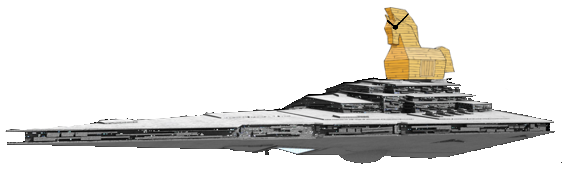
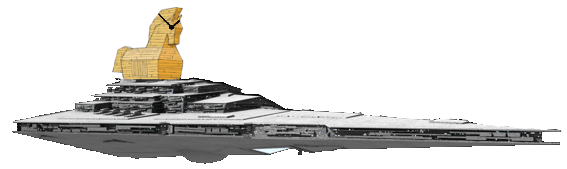
Rage getter and setter in Player + flipped desTroyARRR

diff --git a/Classes/Player.h b/Classes/Player.h
@@ -23,11 +23,19 @@ public:
         return isDead;
     }
 
+	void rageIncrease();
+
+	void setIsRage(const bool & rage);
+
+	bool getIsRage();
+	
 private:
     b2Body * body;
 
     int hp = 100;
+	int rage = 0;
     bool isDead = false;
+	bool isRage = false;
 };
 
 #endif

diff --git a/Classes/Player.cpp b/Classes/Player.cpp
@@ -58,3 +58,16 @@ void Player::damage (Damage::Type type) {
         isDead = true;
     }
 }
+
+void Player::setIsRage(const bool & rage){
+	isRage = rage;
+}
+
+bool Player::getIsRage(){
+	return rage;
+}
+
+
+
+
+
